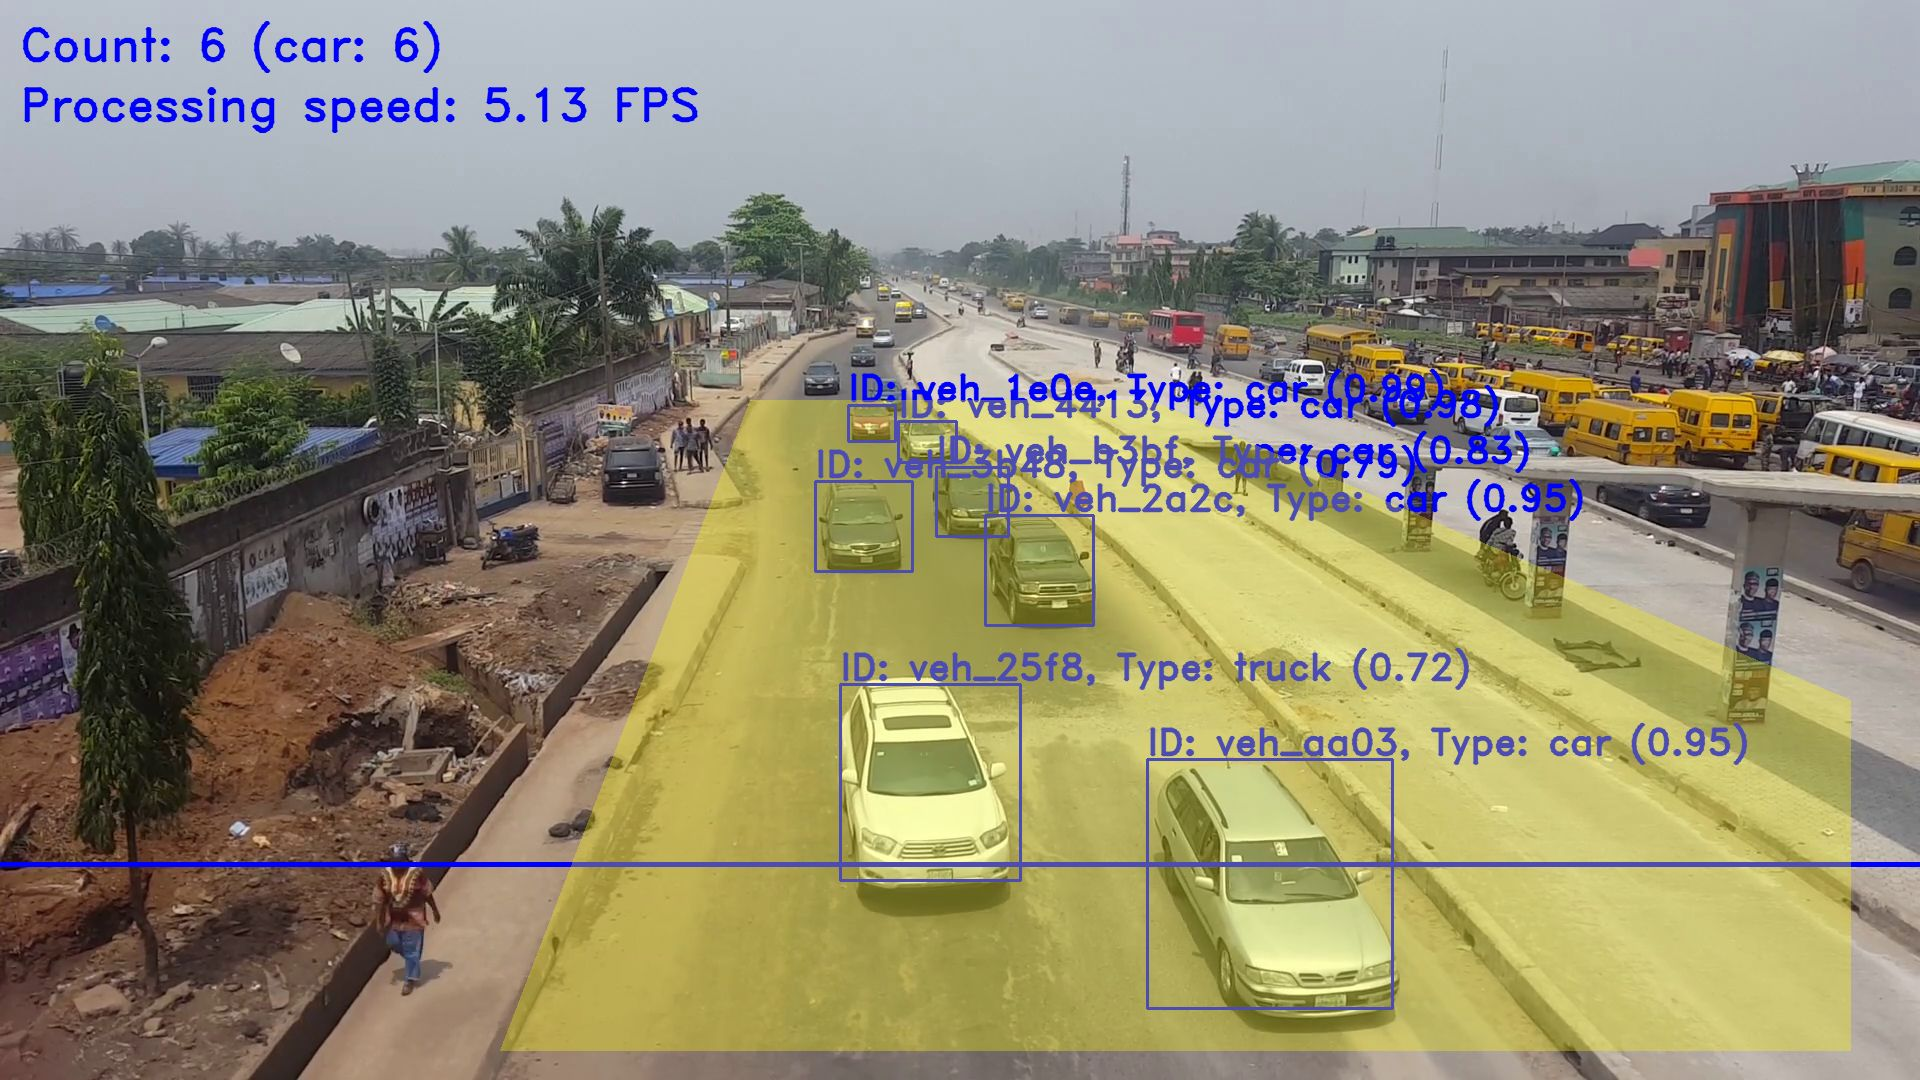
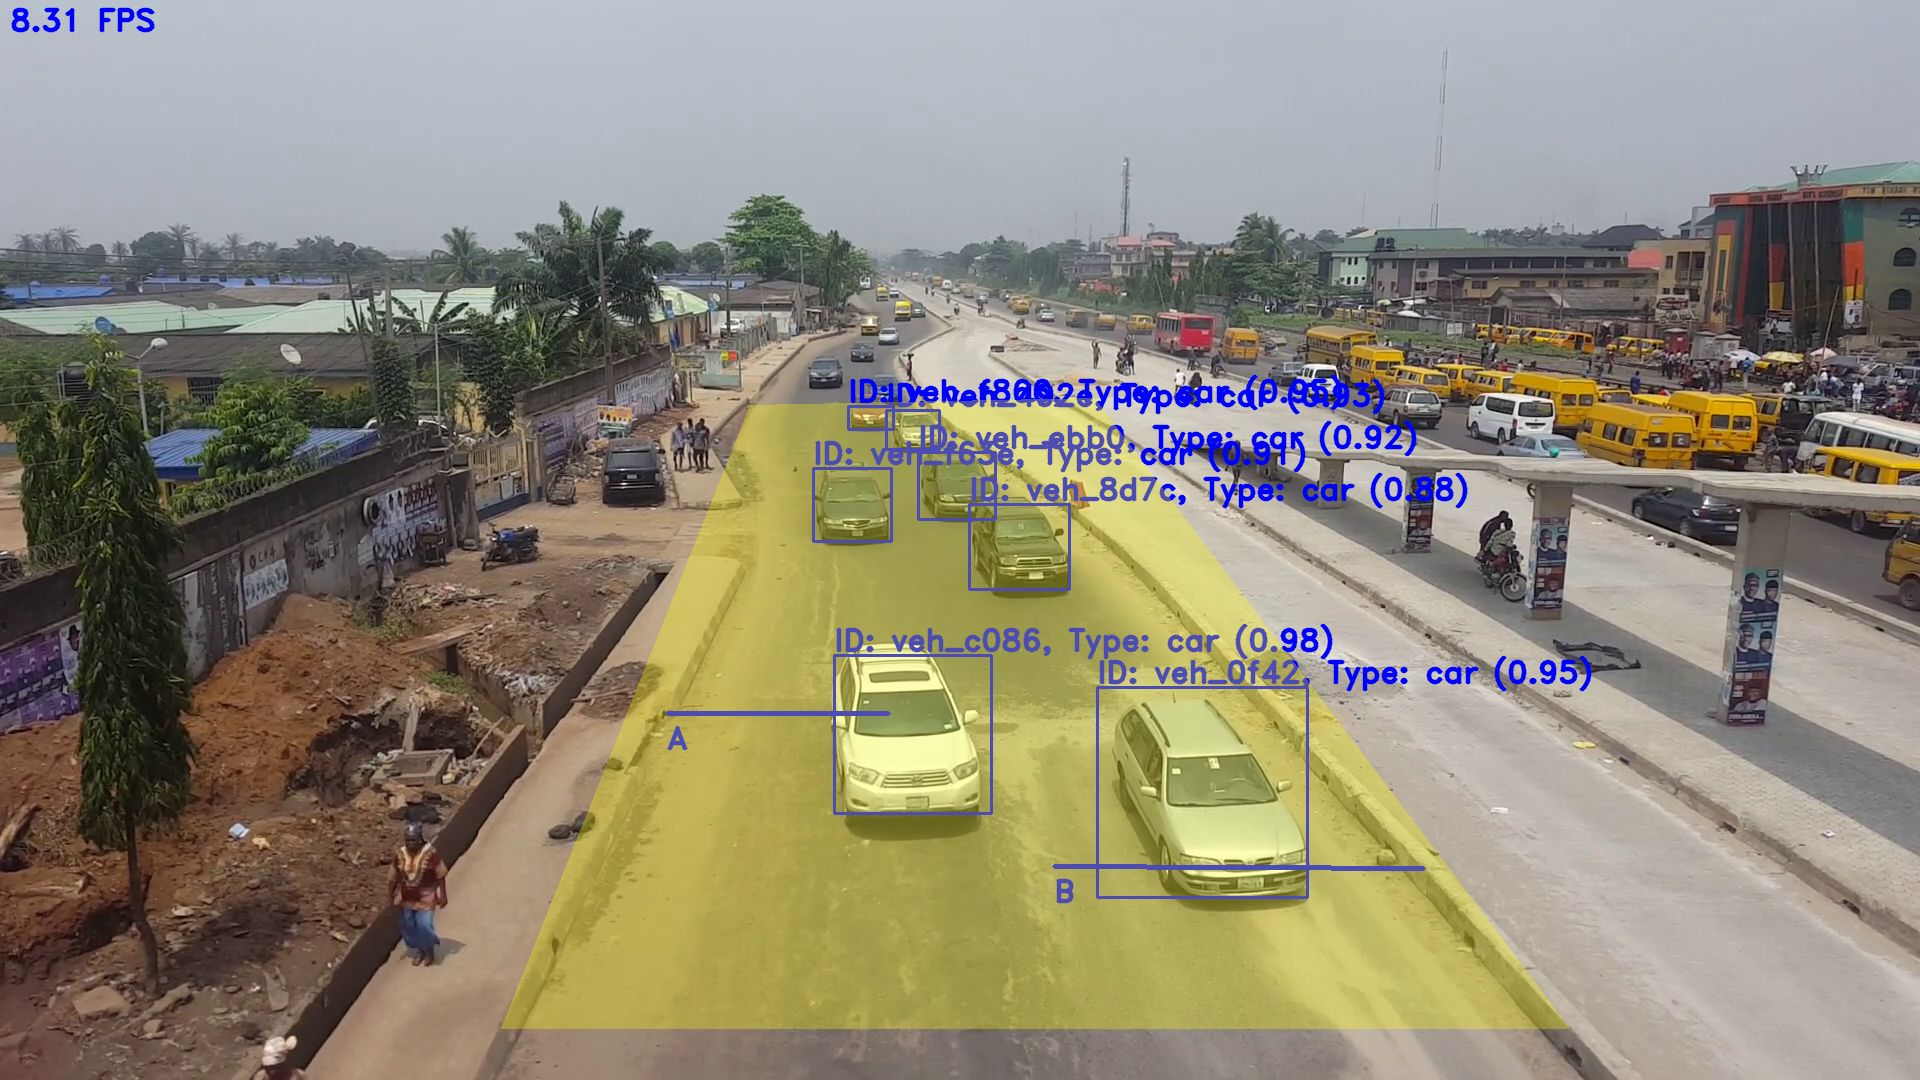
Add support for multiple counting lines

diff --git a/VehicleCounter.py b/VehicleCounter.py
@@ -5,14 +5,14 @@ from detectors.detector import get_bounding_boxes
 import time
 from util.detection_roi import get_roi_frame, draw_roi
 from util.logger import get_logger
-from counter import get_counting_line, is_passed_counting_line
+from counter import has_crossed_counting_line
 
 
 logger = get_logger()
 
 class VehicleCounter():
 
-    def __init__(self, initial_frame, detector, tracker, droi, show_droi, mcdf, mctf, di, cl_position):
+    def __init__(self, initial_frame, detector, tracker, droi, show_droi, mcdf, mctf, di, counting_lines):
         self.frame = initial_frame # current frame of video
         self.detector = detector
         self.tracker = tracker
@@ -21,23 +21,18 @@ class VehicleCounter():
         self.mcdf = mcdf # maximum consecutive detection failures
         self.mctf = mctf # maximum consecutive tracking failures
         self.di = di # detection interval
-        self.cl_position = cl_position # counting line position
+        self.counting_lines = counting_lines
 
         self.blobs = OrderedDict()
         self.f_height, self.f_width, _ = self.frame.shape
         self.frame_count = 0 # number of frames since last detection
         self.processing_frame_rate = 0 # number of frames processed per second
-        self.vehicle_count = 0 # number of vehicles counted
-        self.types_counts = OrderedDict() # counts by vehicle type
-        self.counting_line = None if cl_position == None else get_counting_line(self.cl_position, self.f_width, self.f_height)
+        self.counts_by_type_per_line = {counting_line['label']: {} for counting_line in counting_lines} # counts of vehicles by type for each counting line
 
         # create blobs from initial frame
         droi_frame = get_roi_frame(self.frame, self.droi)
         _bounding_boxes, _classes, _confidences = get_bounding_boxes(droi_frame, self.detector)
-        self.blobs = add_new_blobs(_bounding_boxes, _classes, _confidences, self.blobs, self.frame, self.tracker, self.counting_line, self.cl_position, self.mcdf)
-
-    def get_count(self):
-        return self.vehicle_count
+        self.blobs = add_new_blobs(_bounding_boxes, _classes, _confidences, self.blobs, self.frame, self.tracker, self.mcdf)
 
     def get_blobs(self):
         return self.blobs
@@ -64,39 +59,32 @@ class VehicleCounter():
             else:
                 blob.num_consecutive_tracking_failures += 1
 
-            # count vehicles that have left the frame if no counting line exists
-            # or those that have passed the counting line if one exists
-            if (self.counting_line == None and \
-                    (blob.num_consecutive_tracking_failures == self.mctf or blob.num_consecutive_detection_failures == self.mcdf) and \
-                    not blob.counted) \
-                        or \
-                    (self.counting_line != None and \
-                    # don't count a blob if it was first detected at a position past the counting line
-                    # this enforces counting in only one direction
-                    not is_passed_counting_line(blob.position_first_detected, self.counting_line, self.cl_position) and \
-                    is_passed_counting_line(blob.centroid, self.counting_line, self.cl_position) and \
-                    not blob.counted):
-                blob.counted = True
-                self.vehicle_count += 1
-                # count by vehicle type
-                if blob.type != None:
-                    if blob.type in self.types_counts:
-                        self.types_counts[blob.type] += 1
+            # count vehicle if it has crossed a counting line
+            for counting_line in self.counting_lines:
+                label = counting_line['label']
+                if has_crossed_counting_line(blob.bounding_box, counting_line['line']) and \
+                        label not in blob.lines_crossed:
+                    if blob.type in self.counts_by_type_per_line[label]:
+                        self.counts_by_type_per_line[label][blob.type] += 1
                     else:
-                        self.types_counts[blob.type] = 1
-                logger.info('Vehicle counted.', extra={
-                    'meta': {
-                        'cat': 'VEHICLE_COUNT',
-                        'id': _id,
-                        'type': blob.type,
-                        'count': self.vehicle_count,
-                        'position_first_detected': blob.position_first_detected,
-                        'position_counted': blob.centroid,
-                        'counted_at':time.time(),
-                    },
-                })
+                        self.counts_by_type_per_line[label][blob.type] = 1
 
-            if blob.num_consecutive_tracking_failures >= self.mctf:    
+                    blob.lines_crossed.append(label)
+
+                    logger.info('Vehicle counted.', extra={
+                        'meta': {
+                            'cat': 'VEHICLE_COUNT',
+                            'id': _id,
+                            'type': blob.type,
+                            'counting_line': label,
+                            'position_first_detected': blob.position_first_detected,
+                            'position_counted': blob.centroid,
+                            'counted_at':time.time(),
+                            'counts_by_type_per_line': self.counts_by_type_per_line,
+                        },
+                    })
+
+            if blob.num_consecutive_tracking_failures >= self.mctf:
                 # delete untracked blobs
                 del self.blobs[_id]
 
@@ -104,7 +92,7 @@ class VehicleCounter():
             # rerun detection
             droi_frame = get_roi_frame(self.frame, self.droi)
             _bounding_boxes, _classes, _confidences = get_bounding_boxes(droi_frame, self.detector)
-            self.blobs = add_new_blobs(_bounding_boxes, _classes, _confidences, self.blobs, self.frame, self.tracker, self.counting_line, self.cl_position, self.mcdf)
+            self.blobs = add_new_blobs(_bounding_boxes, _classes, _confidences, self.blobs, self.frame, self.tracker, self.mcdf)
             self.blobs = remove_duplicates(self.blobs)
             self.frame_count = 0
 
@@ -117,25 +105,29 @@ class VehicleCounter():
 
     def visualize(self):
         frame = self.frame
+        font = cv2.FONT_HERSHEY_DUPLEX
+        line_type = cv2.LINE_AA
 
         # draw and label blob bounding boxes
         for _id, blob in self.blobs.items():
             (x, y, w, h) = [int(v) for v in blob.bounding_box]
             cv2.rectangle(frame, (x, y), (x + w, y + h), (255, 0, 0), 2)
             vehicle_label = 'ID: ' + _id[:8] \
-                            if blob.type == None \
+                            if blob.type is None \
                             else 'ID: {0}, Type: {1} ({2})'.format(_id[:8], blob.type, str(blob.type_confidence)[:4])
-            cv2.putText(frame, vehicle_label, (x, y - 5), cv2.FONT_HERSHEY_DUPLEX, 1.2, (255, 0, 0), 2, cv2.LINE_AA)
-        # draw counting line
-        if self.counting_line != None:
-            cv2.line(frame, self.counting_line[0], self.counting_line[1], (255, 0, 0), 3)
-        # display vehicle count
-        types_counts_str = ', '.join([': '.join(map(str, i)) for i in self.types_counts.items()])
-        types_counts_str = ' (' + types_counts_str + ')' if types_counts_str != '' else types_counts_str
-        cv2.putText(frame, 'Count: ' + str(self.vehicle_count) + types_counts_str, (20, 60), cv2.FONT_HERSHEY_DUPLEX, 1.5, (255, 0, 0), 2, cv2.LINE_AA)
-        cv2.putText(frame, 'Processing speed: ' + str(self.processing_frame_rate) + ' FPS', (20, 120), cv2.FONT_HERSHEY_DUPLEX, 1.5, (255, 0, 0), 2, cv2.LINE_AA)
+            cv2.putText(frame, vehicle_label, (x, y - 5), font, 1, (255, 0, 0), 2, line_type)
+
+        # draw counting lines
+        for counting_line in self.counting_lines:
+            cv2.line(frame, counting_line['line'][0], counting_line['line'][1], (255, 0, 0), 3)
+            cl_label_origin = (counting_line['line'][0][0], counting_line['line'][0][1] + 35)
+            cv2.putText(frame, counting_line['label'], cl_label_origin, font, 1, (255, 0, 0), 2, line_type)
+
         # show detection roi
         if self.show_droi:
             frame = draw_roi(frame, self.droi)
+
+        # display processing speed
+        cv2.putText(frame, str(self.processing_frame_rate) + ' FPS', (10, 30), font, 1, (255, 0, 0), 2, line_type)
 
         return frame

diff --git a/counter.py b/counter.py
@@ -1,29 +1,59 @@
-def get_counting_line(line_position, frame_width, frame_height):
-    line_positions = ['top', 'bottom', 'left', 'right']
-    if line_position == None:
-        line_position = 'bottom'
-    if line_position not in line_positions:
-        raise Exception('Invalid line position specified (options: top, bottom, left, right)')
+def line_segments_intersect(line1, line2):
+    '''
+    See: https://www.geeksforgeeks.org/check-if-two-given-line-segments-intersect/
+    '''
+    def get_orientation(p, q, r):
+        val = (q[1] - p[1]) * (r[0] - q[0]) - (q[0] - p[0]) * (r[1] - q[1])
+        if val == 0:
+            return 0
+        return 1 if val > 0 else 2
 
-    if line_position == 'top':
-        counting_line_y = round(1 / 5 * frame_height)
-        return [(0, counting_line_y), (frame_width, counting_line_y)]
-    elif line_position == 'bottom':
-        counting_line_y = round(4 / 5 * frame_height)
-        return [(0, counting_line_y), (frame_width, counting_line_y)]
-    elif line_position == 'left':
-        counting_line_x = round(1 / 5 * frame_width)
-        return [(counting_line_x, 0), (counting_line_x, frame_height)]
-    elif line_position == 'right':
-        counting_line_x = round(4 / 5 * frame_width)
-        return [(counting_line_x, 0), (counting_line_x, frame_height)]
+    def is_on_segment(p, q, r):
+        if q[0] <= max(p[0], r[0]) and q[0] >= min(p[0], r[0]) and \
+            q[1] <= max(p[1], r[1]) and q[1] >= min(p[1], r[1]): 
+            return True
+        return False
 
-def is_passed_counting_line(point, counting_line, line_position):
-    if line_position == 'top':
-        return point[1] < counting_line[0][1]
-    elif line_position == 'bottom':
-        return point[1] > counting_line[0][1]
-    elif line_position == 'left':
-        return point[0] < counting_line[0][0]
-    elif line_position == 'right':
-        return point[0] > counting_line[0][0]
+    p1 = line1[0]
+    q1 = line1[1]
+    p2 = line2[0]
+    q2 = line2[1]
+
+    o1 = get_orientation(p1, q1, p2)
+    o2 = get_orientation(p1, q1, q2)
+    o3 = get_orientation(p2, q2, p1)
+    o4 = get_orientation(p2, q2, q1)
+
+    if o1 != o2 and o3 != o4:
+        return True
+
+    if o1 == 0 and is_on_segment(p1, p2, q1):
+        return True
+
+    if o2 == 0 and is_on_segment(p1, q2, q1):
+        return True
+
+    if o3 == 0 and is_on_segment(p2, p1, q2):
+        return True
+
+    if o4 == 0 and is_on_segment(p2, q1, q2):
+        return True
+
+    return False
+
+def has_crossed_counting_line(bbox, line):
+    '''
+    Check if at least one edge of a bounding box is intersected by a counting line.
+    '''
+    x, y, w, h = bbox
+    bbox_line1 = [(x, y), (x + w, y)]
+    bbox_line2 = [(x + w, y), (x + w, y + h)]
+    bbox_line3 = [(x, y), (x, y + h)]
+    bbox_line4 = [(x, y + h), (x + w, y + h)]
+
+    if line_segments_intersect(bbox_line1, line) or \
+            line_segments_intersect(bbox_line2, line) or \
+            line_segments_intersect(bbox_line3, line) or \
+            line_segments_intersect(bbox_line4, line):
+        return True
+    return False

diff --git a/tracker.py b/tracker.py
@@ -3,7 +3,6 @@ Functions for keeping track of detected vehicles in a video.
 '''
 
 import cv2
-from counter import is_passed_counting_line
 from util.blob import Blob
 from util.bounding_box import get_centroid, get_overlap, get_box_image
 from util.image import get_base64_image
@@ -52,7 +51,7 @@ def remove_stray_blobs(blobs, matched_blob_ids, mcdf):
             del blobs[_id]
     return blobs
 
-def add_new_blobs(boxes, classes, confidences, blobs, frame, tracker, counting_line, line_position, mcdf):
+def add_new_blobs(boxes, classes, confidences, blobs, frame, tracker, mcdf):
     '''
     Adds new blobs or updates existing ones.
     '''
@@ -62,10 +61,9 @@ def add_new_blobs(boxes, classes, confidences, blobs, frame, tracker, counting_l
         _confidence = confidences[i] if confidences is not None else None
         _tracker = get_tracker(tracker, box, frame)
 
-        box_centroid = get_centroid(box)
         match_found = False
         for _id, blob in blobs.items():
-            if not blob.counted and get_overlap(box, blob.bounding_box) >= 0.7:
+            if get_overlap(box, blob.bounding_box) >= 0.6:
                 match_found = True
                 if _id not in matched_blob_ids:
                     blob.num_consecutive_detection_failures = 0
@@ -84,7 +82,7 @@ def add_new_blobs(boxes, classes, confidences, blobs, frame, tracker, counting_l
                 })
                 break
 
-        if not match_found and not is_passed_counting_line(box_centroid, counting_line, line_position):
+        if not match_found:
             _blob = Blob(box, _type, _confidence, _tracker)
             blob_id = generate_vehicle_id()
             blobs[blob_id] = _blob
@@ -112,6 +110,6 @@ def remove_duplicates(blobs):
             if blob_a == blob_b:
                 break
 
-            if get_overlap(blob_a.bounding_box, blob_b.bounding_box) >= 0.7 and _id in blobs:
+            if get_overlap(blob_a.bounding_box, blob_b.bounding_box) >= 0.6 and _id in blobs:
                 del blobs[_id]
     return blobs

diff --git a/util/blob.py b/util/blob.py
@@ -2,6 +2,9 @@ from .bounding_box import get_centroid, get_area
 
 
 class Blob:
+    '''
+    A blob object represents a tracked vehicle as it moves around in a video.
+    '''
     def __init__(self, _bounding_box, _type, _confidence, _tracker):
         self.bounding_box = _bounding_box
         self.type = _type
@@ -11,13 +14,13 @@ class Blob:
         self.tracker = _tracker
         self.num_consecutive_tracking_failures = 0
         self.num_consecutive_detection_failures = 0
-        self.counted = False
+        self.lines_crossed = [] # list of counting lines crossed by a vehicle
         self.position_first_detected = tuple(self.centroid)
 
     def update(self, _bounding_box, _type=None, _confidence=None, _tracker=None):
         self.bounding_box = _bounding_box
-        self.type = _type if _type != None else self.type
-        self.type_confidence = _confidence if _confidence != None else self.type_confidence
+        self.type = _type if _type is not None else self.type
+        self.type_confidence = _confidence if _confidence is not None else self.type_confidence
         self.centroid = get_centroid(_bounding_box)
         self.area = get_area(_bounding_box)
         if _tracker:

diff --git a/main.py b/main.py
@@ -47,10 +47,10 @@ def run():
             if use_droi \
             else [(0, 0), (f_width, 0), (f_width, f_height), (0, f_height)]
     show_droi = ast.literal_eval(os.getenv('SHOW_DROI'))
-    counting_line_position = os.getenv('COUNTING_LINE_POSITION')
+    counting_lines = ast.literal_eval(os.getenv('COUNTING_LINES'))
 
     vehicle_counter = VehicleCounter(frame, detector, tracker, droi, show_droi, mcdf,
-                                     mctf, detection_interval, counting_line_position)
+                                     mctf, detection_interval, counting_lines)
 
     record = ast.literal_eval(os.getenv('RECORD'))
     headless = ast.literal_eval(os.getenv('HEADLESS'))
@@ -74,7 +74,7 @@ def run():
                 'use_droi': use_droi,
                 'droi': droi,
                 'show_droi': show_droi,
-                'counting_line_position': counting_line_position
+                'counting_lines': counting_lines
             },
         },
     })
